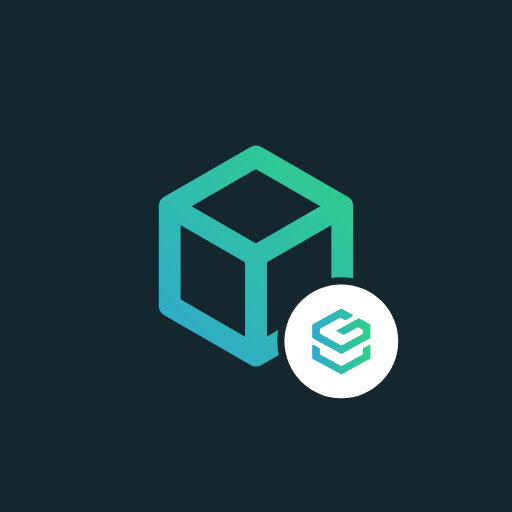
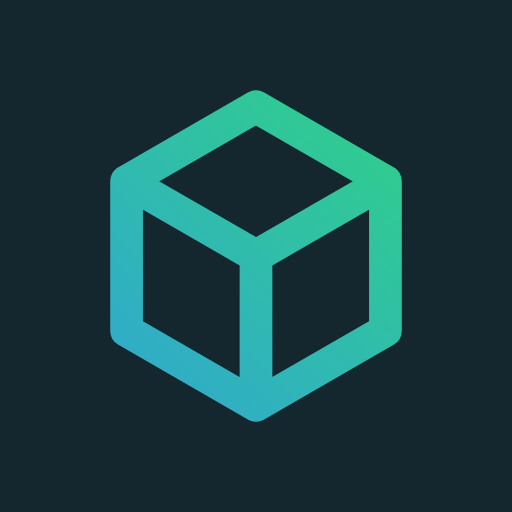
1.16: universeel, zonder Van Gils
Logo vervangen door de doos, namen en verwijzingen weg, nieuwe codes beginnen met VR-.

Claude-Session: https://claude.ai/code/session_01XHzzxPBag5cquLuTZVMc8h

Changed region(s): [[0.1875, 0.1562, 0.8125, 0.8438]]

diff --git a/sw.js b/sw.js
@@ -1,7 +1,7 @@
 // ---- Offline werken
 // Alle bestanden van de app worden bij de eerste keer bewaard, zodat de app ook zonder internet opent
 // (in de bestelwagen, in een kelder…). Nieuwe versie = CACHE-naam ophogen (zelfde als js/version.js).
-const CACHE = 'voorraad-1.15.1';
+const CACHE = 'voorraad-1.16';
 const FILES = [
   './', 'index.html', 'manifest.webmanifest', 'css/app.css',
   'js/app.js', 'js/files.js', 'js/icons.js', 'js/material.js', 'js/qr.js', 'js/router.js',
@@ -9,7 +9,7 @@ const FILES = [
   'js/screens/catalog.js', 'js/screens/edit.js', 'js/screens/home.js', 'js/screens/item.js', 'js/screens/restock.js', 'js/screens/scan.js', 'js/screens/settings.js', 'js/screens/trash.js', 'js/screens/usage.js',
   'lib/fflate.js', 'lib/jsQR.js', 'lib/preact-htm.js', 'lib/qrcode.mjs', 'lib/zxing.min.js',
   'lib/firebase/firebase-app.js', 'lib/firebase/firebase-auth.js', 'lib/firebase/firebase-firestore.js',
-  'img/logo_wit.png', 'img/logo_zwart.png', 'img/icon-192.png', 'img/icon-512.png', 'img/apple-touch-icon.png',
+  'img/logo-doos.svg', 'img/icon-192.png', 'img/icon-512.png', 'img/apple-touch-icon.png',
 ];
 
 self.addEventListener('install', (e) => {

diff --git a/css/app.css b/css/app.css
@@ -1,4 +1,4 @@
-/* ---- Van Gils-huisstijl (uit UniFi Inform), futuristische versie zoals de Android-app 1.5
+/* ---- Huisstijl, futuristische versie zoals de Android-app 1.5
    Alle kleuren staan hier centraal; schermen gebruiken enkel deze variabelen. */
 
 :root {
@@ -109,12 +109,8 @@ p { margin: 4px 0; }
 }
 .bar-row { height: 60px; display: flex; align-items: center; padding: 0 4px 0 var(--pad); gap: 0; }
 .bar-row-back { padding-left: 4px; }
-.logo { height: 22px; }
-.logo img { height: 22px; width: auto; }
-.logo-dark { display: none; }
-@media (prefers-color-scheme: dark) { :root:not([data-theme="light"]) .logo-dark { display: block; } :root:not([data-theme="light"]) .logo-light { display: none; } }
-:root[data-theme="dark"] .logo-dark { display: block; }
-:root[data-theme="dark"] .logo-light { display: none; }
+.logo { height: 32px; display: flex; }
+.logo img { height: 32px; width: auto; }
 .bar-sep { width: 1px; height: 22px; background: var(--line); margin: 0 12px; }
 .bar-title { flex: 1; font-size: 18px; font-weight: 600; overflow: hidden; text-overflow: ellipsis; white-space: nowrap; }
 .bar-title.sub { color: var(--sub); font-size: 18px; }

diff --git a/js/store.js b/js/store.js
@@ -196,7 +196,7 @@ export const store = {
     return data.trash.find((i) => i.code.toLowerCase() === c);
   },
 
-  /** Nieuwe, korte code voor een QR-label, bv. "VG-K7M2QX". Zonder tekens die op elkaar lijken (0/O, 1/I). */
+  /** Nieuwe, korte code voor een QR-label, bv. "VR-K7M2QX". Zonder tekens die op elkaar lijken (0/O, 1/I). */
   newCode() { return freshCode(data); },
 
   // ---- artikels
@@ -433,7 +433,7 @@ function freshCode(d) {
   const taken = new Set([...d.items, ...d.trash].map((i) => i.code.toLowerCase()));
   for (;;) {
     const bytes = crypto.getRandomValues(new Uint8Array(6));
-    const code = 'VG-' + Array.from(bytes, (b) => alphabet[b % alphabet.length]).join('');
+    const code = 'VR-' + Array.from(bytes, (b) => alphabet[b % alphabet.length]).join('');
     if (!taken.has(code.toLowerCase())) return code;
   }
 }

diff --git a/js/files.js b/js/files.js
@@ -122,7 +122,7 @@ export function makeExcel() {
 <Relationship Id="rId1" Type="http://schemas.openxmlformats.org/officeDocument/2006/relationships/worksheet" Target="worksheets/sheet1.xml"/>
 <Relationship Id="rId2" Type="http://schemas.openxmlformats.org/officeDocument/2006/relationships/styles" Target="styles.xml"/>
 </Relationships>`,
-    // Stijl 0 = gewoon, stijl 1 = kopregel: vet, wit op Van Gils-petrol.
+    // Stijl 0 = gewoon, stijl 1 = kopregel: vet, wit op petrol.
     'xl/styles.xml': `<?xml version="1.0" encoding="UTF-8" standalone="yes"?>
 <styleSheet xmlns="http://schemas.openxmlformats.org/spreadsheetml/2006/main">
 <fonts count="2"><font><sz val="11"/><name val="Calibri"/></font><font><b/><sz val="11"/><color rgb="FFFFFFFF"/><name val="Calibri"/></font></fonts>

diff --git a/index.html b/index.html
@@ -4,7 +4,7 @@
   <meta charset="utf-8" />
   <meta name="viewport" content="width=device-width, initial-scale=1, maximum-scale=1, user-scalable=no, viewport-fit=cover" />
   <title>Voorraad</title>
-  <meta name="description" content="Voorraad in de bestelwagen · Van Gils" />
+  <meta name="description" content="Voorraad bijhouden met QR-codes" />
   <meta name="theme-color" content="#ffffff" media="(prefers-color-scheme: light)" />
   <meta name="theme-color" content="#161a1d" media="(prefers-color-scheme: dark)" />
   <meta name="apple-mobile-web-app-capable" content="yes" />

diff --git a/js/ui.js b/js/ui.js
@@ -48,8 +48,7 @@ export function BrandBar({ title, children, many }) {
   return html`<header class="bar">
     <div class=${'bar-row' + (many ? ' many' : '')}>
       <span class="logo">
-        <img class="logo-light" src="img/logo_zwart.png" alt="Van Gils" />
-        <img class="logo-dark" src="img/logo_wit.png" alt="Van Gils" />
+        <img src="img/logo-doos.svg" alt="" />
       </span>
       <span class="bar-sep"></span>
       <span class="bar-title sub">${title}</span>

diff --git a/js/cloud-card.js b/js/cloud-card.js
@@ -44,8 +44,7 @@ export function LoginScreen() {
     <header class="bar">
       <div class="bar-row">
         <span class="logo">
-          <img class="logo-light" src="img/logo_zwart.png" alt="Van Gils" />
-          <img class="logo-dark" src="img/logo_wit.png" alt="Van Gils" />
+          <img src="img/logo-doos.svg" alt="" />
         </span>
         <span class="bar-sep"></span>
         <span class="bar-title sub">Voorraad</span>

diff --git a/js/screens/settings.js b/js/screens/settings.js
@@ -178,9 +178,8 @@ export function SettingsScreen() {
 
       <${SectionHeader}>Over deze app<//>
       <${Card}>
-        <div class="card-title">Voorraad · Van Gils</div>
+        <div class="card-title">Voorraad</div>
         <div class="sub">Versie ${VERSION} · web-app</div>
-        <p class="small faint">Gemaakt door Sven Benoot · Van Gils, Beernem · vangils.pro</p>
       <//>
     </main>
 

diff --git a/js/version.js b/js/version.js
@@ -1,2 +1,2 @@
 // Versie van de web-app; ook gebruikt als naam van de offline-cache in sw.js (daar mee aanpassen).
-export const VERSION = '1.15.1';
+export const VERSION = '1.16';

diff --git a/README.md b/README.md
@@ -1,7 +1,5 @@
-# Voorraad · Van Gils
+# Voorraad
 
-Web-app om de voorraad in de bestelwagen bij te houden met QR-codes. Werkt op iPhone en Android, ook zonder internet.
+Web-app om voorraad bij te houden met QR-codes. Werkt op elk toestel, ook zonder internet.
 
-Je gegevens staan enkel op je eigen toestel, niet in deze repository. Maak in Instellingen geregeld een reservekopie naar iCloud Drive.
-
-Gemaakt door Sven Benoot · Van Gils, Beernem
+Je gegevens staan op je toestel en, als je ingelogd bent, online bewaard.
